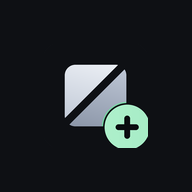
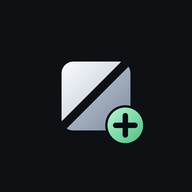
v1.66.8: smaller plus badge, safe margins

Changed region(s): [[0.3438, 0.3438, 0.7812, 0.7812], [0.3125, 0.3125, 0.625, 0.625]]

diff --git a/game_tracker.py b/game_tracker.py
@@ -4730,7 +4730,7 @@ class Handler(http.server.BaseHTTPRequestHandler):
         p = self.path.split("?")[0]
         # health — без пароля: для uptime-моніторингу (жодних даних не віддає)
         if p == "/api/health":
-            self._json({"ok": True, "version": "1.66.7", "uptime": int(time.time() - _START_TS)})
+            self._json({"ok": True, "version": "1.66.8", "uptime": int(time.time() - _START_TS)})
             return
         if p in ("/api/license/register", "/api/license/release"):
             pass  # licensing endpoint: public, protected by the key signature
@@ -5390,7 +5390,7 @@ self.addEventListener('notificationclick', e => { e.notification.close(); client
                     return os.path.getsize(path)
                 except Exception:
                     return 0
-            self._json({"ok": True, "version": "1.66.7",
+            self._json({"ok": True, "version": "1.66.8",
                         "uptime": int(time.time() - _START_TS),
                         "counts": {"purchases": len(_read_json(PL_FILE, []) or []),
                                    "eldorado": len(_read_json(ED_FILE, []) or []),
@@ -7956,7 +7956,7 @@ def main():
         return 3
 
     print("=" * 60)
-    print("  ▲  Ledger v1.66.7")
+    print("  ▲  Ledger v1.66.8")
     print("  📊 " + _cl("Угоди · Канали · Склад · Аналітика · Бекапи",
                         "Deals · Channels · Stock · Analytics · Backups",
                         "Сделки · Каналы · Склад · Аналитика · Бэкапы"))

diff --git a/CHANGELOG.md b/CHANGELOG.md
@@ -1,5 +1,9 @@
 # Changelog
 
+## v1.66.8 — smaller Ledger+ badge
+- Redesigned Ledger+ mark: the green plus badge is smaller and moved inward; content stays within 80% of the canvas on iOS and inside the Android maskable safe circle.
+- New full-bleed SVG/PNG/ICO assets; iOS 180 at 85%, PWA any 85%, maskable 70%.
+
 ## v1.66.7 — icon safe areas
 - iOS apple-touch icon at 75% logo size (no clipping under the squircle mask).
 - PWA manifest now has separate `any` (80%) and `maskable` (55%, inside the Android 80% safe circle) icons.
